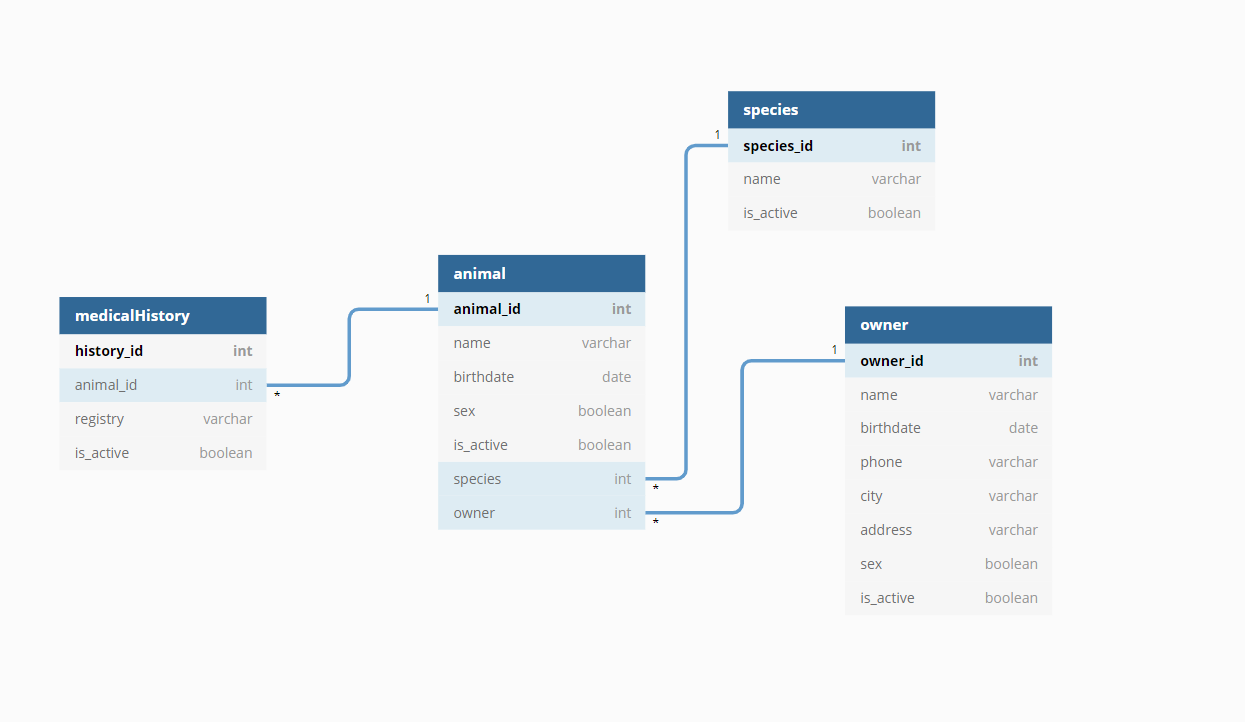
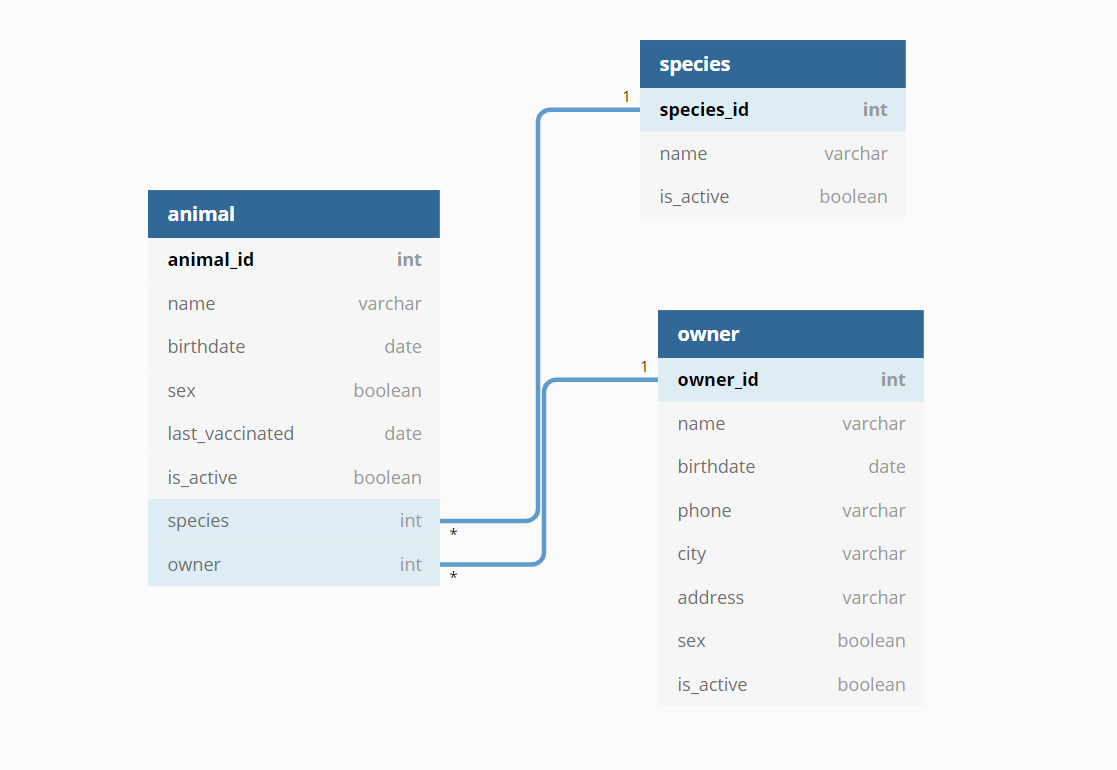
Reduced database

diff --git a/src/java/Modell/Animal.java b/src/java/Modell/Animal.java
@@ -6,7 +6,6 @@
 package Modell;
 
 import java.io.Serializable;
-import java.util.Collection;
 import java.util.Date;
 import javax.persistence.Basic;
 import javax.persistence.Column;
@@ -18,13 +17,11 @@ import javax.persistence.JoinColumn;
 import javax.persistence.ManyToOne;
 import javax.persistence.NamedQueries;
 import javax.persistence.NamedQuery;
-import javax.persistence.OneToMany;
 import javax.persistence.Table;
 import javax.persistence.Temporal;
 import javax.persistence.TemporalType;
 import javax.validation.constraints.Size;
 import javax.xml.bind.annotation.XmlRootElement;
-import javax.xml.bind.annotation.XmlTransient;
 
 /**
  *
@@ -39,6 +36,7 @@ import javax.xml.bind.annotation.XmlTransient;
     , @NamedQuery(name = "Animal.findByName", query = "SELECT a FROM Animal a WHERE a.name = :name")
     , @NamedQuery(name = "Animal.findByBirthdate", query = "SELECT a FROM Animal a WHERE a.birthdate = :birthdate")
     , @NamedQuery(name = "Animal.findBySex", query = "SELECT a FROM Animal a WHERE a.sex = :sex")
+    , @NamedQuery(name = "Animal.findByLastVaccinated", query = "SELECT a FROM Animal a WHERE a.lastVaccinated = :lastVaccinated")
     , @NamedQuery(name = "Animal.findByIsActive", query = "SELECT a FROM Animal a WHERE a.isActive = :isActive")})
 public class Animal implements Serializable {
 
@@ -56,10 +54,11 @@ public class Animal implements Serializable {
     private Date birthdate;
     @Column(name = "sex")
     private Boolean sex;
+    @Column(name = "last_vaccinated")
+    @Temporal(TemporalType.DATE)
+    private Date lastVaccinated;
     @Column(name = "is_active")
     private Boolean isActive;
-    @OneToMany(mappedBy = "animalId")
-    private Collection<Medicalhistory> medicalhistoryCollection;
     @JoinColumn(name = "species", referencedColumnName = "species_id")
     @ManyToOne
     private Species species;
@@ -69,17 +68,6 @@ public class Animal implements Serializable {
 
     public Animal() {
     }
-
-    public Animal(String name, Date birthdate, Boolean sex, Boolean isActive, Species species, Owner owner) {
-        this.name = name;
-        this.birthdate = birthdate;
-        this.sex = sex;
-        this.isActive = isActive;
-        this.species = species;
-        this.owner = owner;
-    }
-    
-    
 
     public Animal(Integer animalId) {
         this.animalId = animalId;
@@ -117,21 +105,20 @@ public class Animal implements Serializable {
         this.sex = sex;
     }
 
+    public Date getLastVaccinated() {
+        return lastVaccinated;
+    }
+
+    public void setLastVaccinated(Date lastVaccinated) {
+        this.lastVaccinated = lastVaccinated;
+    }
+
     public Boolean getIsActive() {
         return isActive;
     }
 
     public void setIsActive(Boolean isActive) {
         this.isActive = isActive;
-    }
-
-    @XmlTransient
-    public Collection<Medicalhistory> getMedicalhistoryCollection() {
-        return medicalhistoryCollection;
-    }
-
-    public void setMedicalhistoryCollection(Collection<Medicalhistory> medicalhistoryCollection) {
-        this.medicalhistoryCollection = medicalhistoryCollection;
     }
 
     public Species getSpecies() {

diff --git a/src/java/Modell/Owner.java b/src/java/Modell/Owner.java
@@ -75,18 +75,6 @@ public class Owner implements Serializable {
     public Owner() {
     }
 
-    public Owner(String name, Date birthdate, String phone, String city, String address, Boolean sex, Boolean isActive) {
-        this.name = name;
-        this.birthdate = birthdate;
-        this.phone = phone;
-        this.city = city;
-        this.address = address;
-        this.sex = sex;
-        this.isActive = isActive;
-    }
-    
-    
-
     public Owner(Integer ownerId) {
         this.ownerId = ownerId;
     }

diff --git a/src/java/Modell/Species.java b/src/java/Modell/Species.java
@@ -52,13 +52,6 @@ public class Species implements Serializable {
     public Species() {
     }
 
-    public Species(Integer speciesId, String name, Boolean isActive) {
-        this.speciesId = speciesId;
-        this.name = name;
-        this.isActive = isActive;
-    }
-    
-    
     public Species(Integer speciesId) {
         this.speciesId = speciesId;
     }
